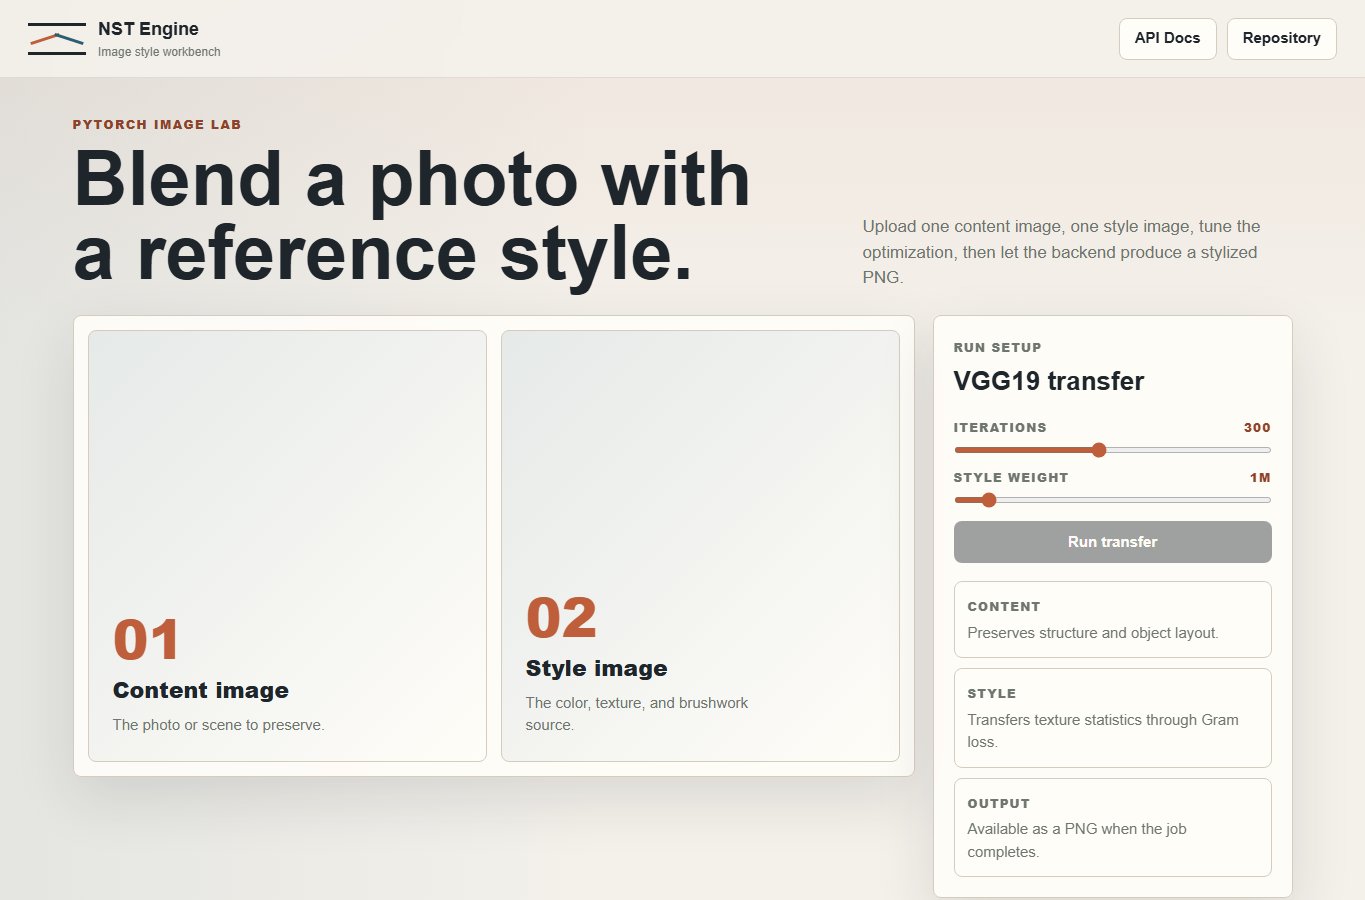
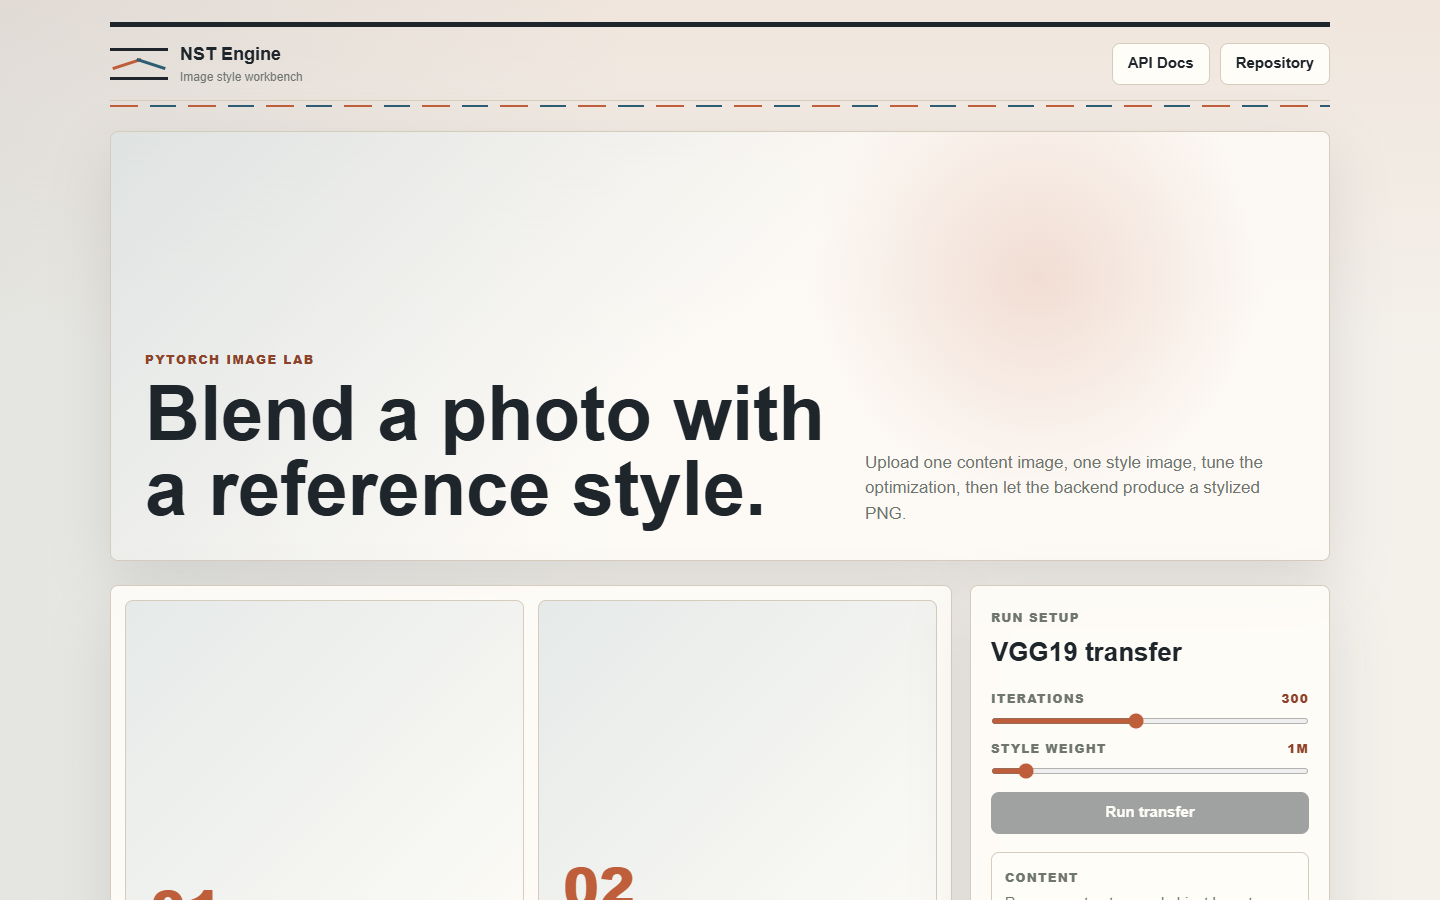
design: give studio header a distinct treatment

diff --git a/frontend/style.css b/frontend/style.css
@@ -56,18 +56,28 @@ button {
 }
 
 .topbar {
-  position: sticky;
-  top: 0;
+  position: relative;
   z-index: 20;
-  display: flex;
+  display: grid;
+  grid-template-columns: 1fr auto;
   align-items: center;
-  justify-content: space-between;
   gap: 20px;
-  min-height: 74px;
-  padding: 16px 28px;
-  border-bottom: 1px solid rgba(30, 37, 43, 0.1);
-  background: rgba(244, 241, 235, 0.9);
-  backdrop-filter: blur(14px);
+  width: min(1220px, calc(100% - 36px));
+  margin: 22px auto 0;
+  padding: 14px 0;
+  border-top: 5px solid var(--ink);
+  border-bottom: 1px solid var(--line);
+  background: transparent;
+}
+
+.topbar::after {
+  content: "";
+  position: absolute;
+  left: 0;
+  right: 0;
+  bottom: -7px;
+  height: 2px;
+  background: repeating-linear-gradient(90deg, var(--accent) 0 28px, transparent 28px 40px, var(--blue) 40px 66px, transparent 66px 78px);
 }
 
 .brand {
@@ -145,10 +155,15 @@ button {
   background: var(--surface);
 }
 
+.nav a:hover {
+  background: var(--ink);
+  color: var(--surface);
+}
+
 .shell {
   width: min(1220px, calc(100% - 36px));
   margin: 0 auto;
-  padding: 38px 0 72px;
+  padding: 30px 0 72px;
 }
 
 .masthead {
@@ -156,7 +171,16 @@ button {
   grid-template-columns: minmax(0, 1fr) minmax(260px, 430px);
   gap: 24px;
   align-items: end;
+  min-height: 430px;
   margin-bottom: 24px;
+  padding: 34px;
+  border: 1px solid var(--line);
+  border-radius: var(--radius);
+  background:
+    radial-gradient(circle at 76% 34%, rgba(190, 94, 59, 0.18), transparent 24%),
+    linear-gradient(135deg, rgba(45, 93, 115, 0.13), transparent 50%),
+    rgba(255, 253, 248, 0.78);
+  box-shadow: var(--shadow);
 }
 
 .eyebrow {
@@ -468,8 +492,7 @@ button {
 
 @media (max-width: 640px) {
   .topbar {
-    align-items: flex-start;
-    flex-direction: column;
+    grid-template-columns: 1fr;
     padding: 16px;
   }
 